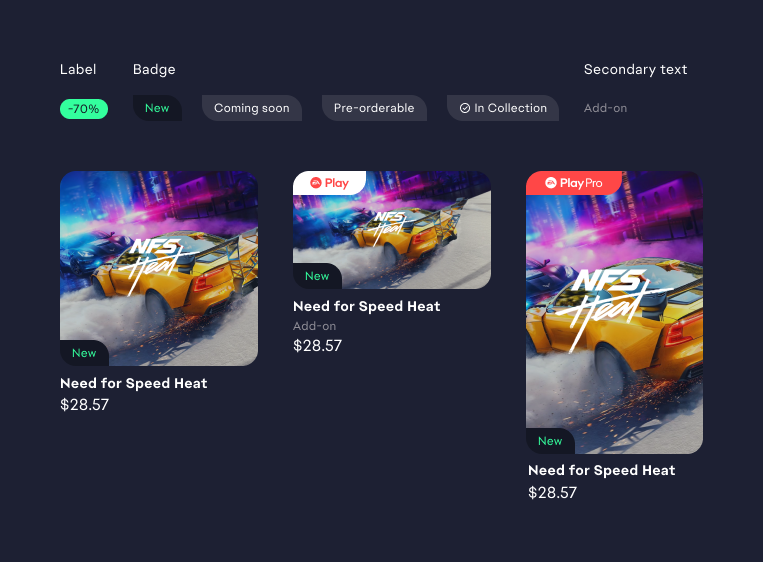
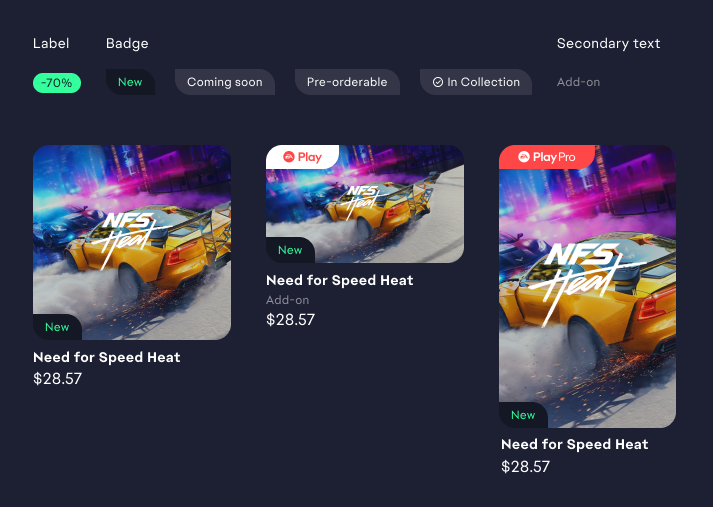
ea changes

diff --git a/ea.html b/ea.html
@@ -126,62 +126,57 @@
      <div class="main-content">
         <section class="process">
 
-        <div>
             <div class="sections">
                 <h2>Design Process</h2>
                 <hr class="section_separator">
             </div>
 
-            <h3>In App Analysis</h3>
-            <p>To familiarize myself with game tiles and the application, I conducted an audit and identified potential <strong>inconsistencies and gaps</strong>.</p>
-      
-            <img src="img/ea-problemGroups.jpg" class="modal-target" alt="Image of problem discovery">
+            <div>
+                <h3>In App Analysis</h3>
+                <p>To familiarize myself with game tiles and the application, I conducted an audit and identified potential <strong>inconsistencies and gaps</strong>.</p>
+                <img src="img/ea-problemGroups.jpg" class="modal-target" alt="Image of problem discovery">
+            </div>
+  
 
-        </section> <!-- process -->
-    </div> <!-- main-content -->
-
-
-    <div class="findings">
-        <div class="findings-grid">
-        
+        <div class="findings-grid-CA">
+            <h3>Findings:</h3>
             <div class="finding">
-                <h3>Findings:</h3>
                 <div class="thefinding">
                     <h3 class="finding-num">01</h3>
                     <p>Flexibility and efficiency of use</p>
                     <h5>New games are not portrayed in game tiles.</h5>
                 </div>
+
                 <div class="thefinding">
                     <h3 class="finding-num">02</h3>
                     <p>Aesthetic and minimalist design</p>
                     <h5>Price and discount take up majority of line width</h5>
                 </div>
+
+                <div>
+                    <img src="img/ea-findings1.png" class="modal-target">
+                </div>
+
                 <div class="thefinding">
                     <h3 class="finding-num">03</h3>
                     <p>Consistency and standards</p>
-                    <h5>Inconsistent Add-on tiles and lists</h5>
+                    <h5>Add-on tiles and lists contains inconsistent content</h5>
                 </div>
-            </div>
 
-            <div>
-                <img src="img/ea-findings1.png" class="modal-target">
-            </div>
-            
-        </div> <!-- findings-grid -->
-    </div> <!-- findings -->
+                <div>
+                    <img src="img/ea-findings1-1.png" class="modal-target">
+                </div>
+            </div><!-- finding -->
+        </div> <!-- findings-grid-CA -->
 
-
-    <div class="main-content">
-        <section class="process">
-
-            <div>
-                <h3>Problem prioritization</h3>
-                <p>Considering time and cost constraints, we focused on problems with the <strong>least effort</strong> but <strong>highest impact</strong>.</p>
-                 <img src="img/ea-problemPriority.jpg" class="modal-target">
-            </div>
+        <div>
+            <h3>Problem prioritization</h3>
+            <p>Considering time and cost constraints, we focused on problems with the <strong>least effort</strong> but <strong>highest impact</strong>.</p>
+             <img src="img/ea-problemPriority.jpg" class="modal-target">
+        </div>
 
         </section> <!-- process -->
-   </div> <!-- main-content -->
+    </div> <!-- main-content -->
 
 
    <div class="ea-focus highlight-light">

diff --git a/css/main.css b/css/main.css
@@ -363,12 +363,12 @@ background-image: linear-gradient(
 
 .ea-project:hover{
 	background-size: 400% 400%;
- 	animation: gradient 3s ease infinite;
+ 	animation: gradient 2s ease infinite;
 }
 
 .trackling-project:hover{
 	background-size: 400% 400%;
-	animation: gradient 3s ease infinite;
+	animation: gradient 2s ease infinite;
 }
 
 @keyframes gradient {
@@ -593,6 +593,10 @@ ul li{
 	color: gray;
 }
 
+.sub-sec{
+	padding-top: 1.5rem;
+}
+
 .ea-criteria li, .ea-focus li{
 	list-style: none;
 }
@@ -603,7 +607,7 @@ ul li{
 
 #ea-gamestate{
 	color: #FFFFFF;
-	background-color: #0f101a;
+	background-color: #121A4B;
 }
 
 .reflection{
@@ -627,7 +631,7 @@ hr.section_separator{
 
 .thefinding, .thefinding-trac{
 	border: 1.85px dashed #838383;
-	margin: 1rem 1rem 1rem 0rem;
+	margin: 1rem 0rem 1rem 0rem;
 	padding: 0.7rem 1rem 0.9rem 1.2rem;
 }
 

diff --git a/css/grid.css b/css/grid.css
@@ -179,8 +179,8 @@
 .highlight-content-dark, .highlight-content-light{
 	grid-column-start: 7;
 	grid-column-end: 27;
-	padding-top: 1.5rem;
-	padding-bottom: 1.5rem;
+	padding-top: 2.1rem;
+	padding-bottom: 2.1rem;
 }
 
 .highlight-content-light{
@@ -275,10 +275,7 @@
 	grid-column-end: 27;
 }
 
-.process, .overview{
-	display: grid;
-	grid-row-gap: 1.5rem;
-}
+
 
 #ea-gamestate{
 	grid-column-start: 1;

diff --git a/css/normalize.css b/css/normalize.css
@@ -115,9 +115,9 @@ dfn {
  * contexts in Firefox 4+, Safari, and Chrome.
  */
 h1 {
-  font-size: 2.4em;
+  font-size: 2.5em;
   margin: 0.67em 0;
-  letter-spacing: 0.06em;
+  letter-spacing: 0.045em;
 }
 
 /**
